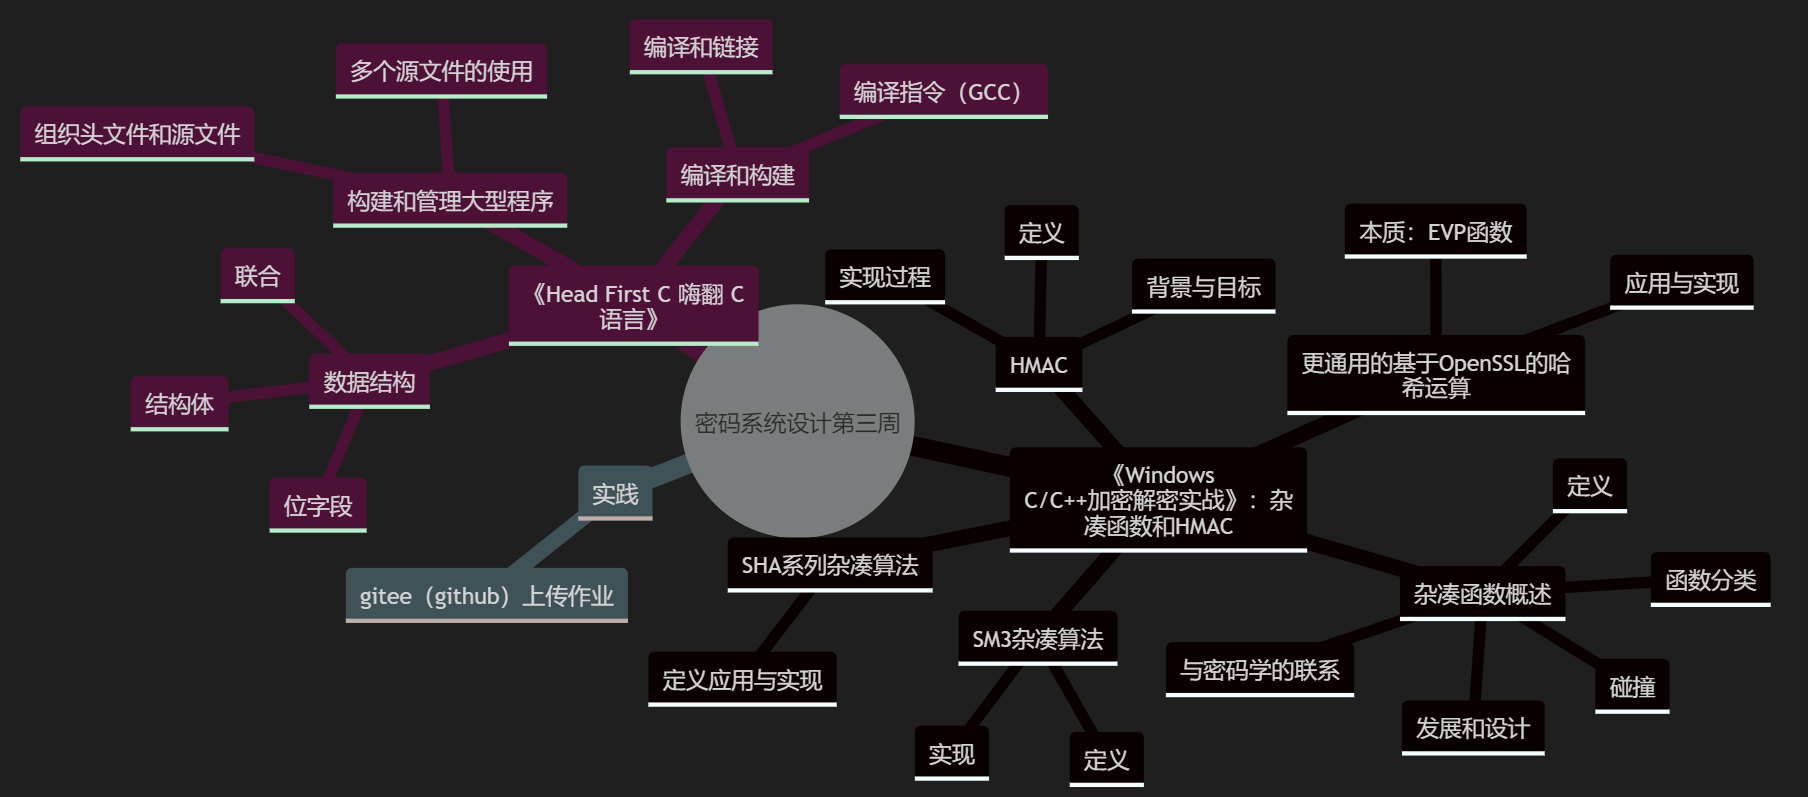
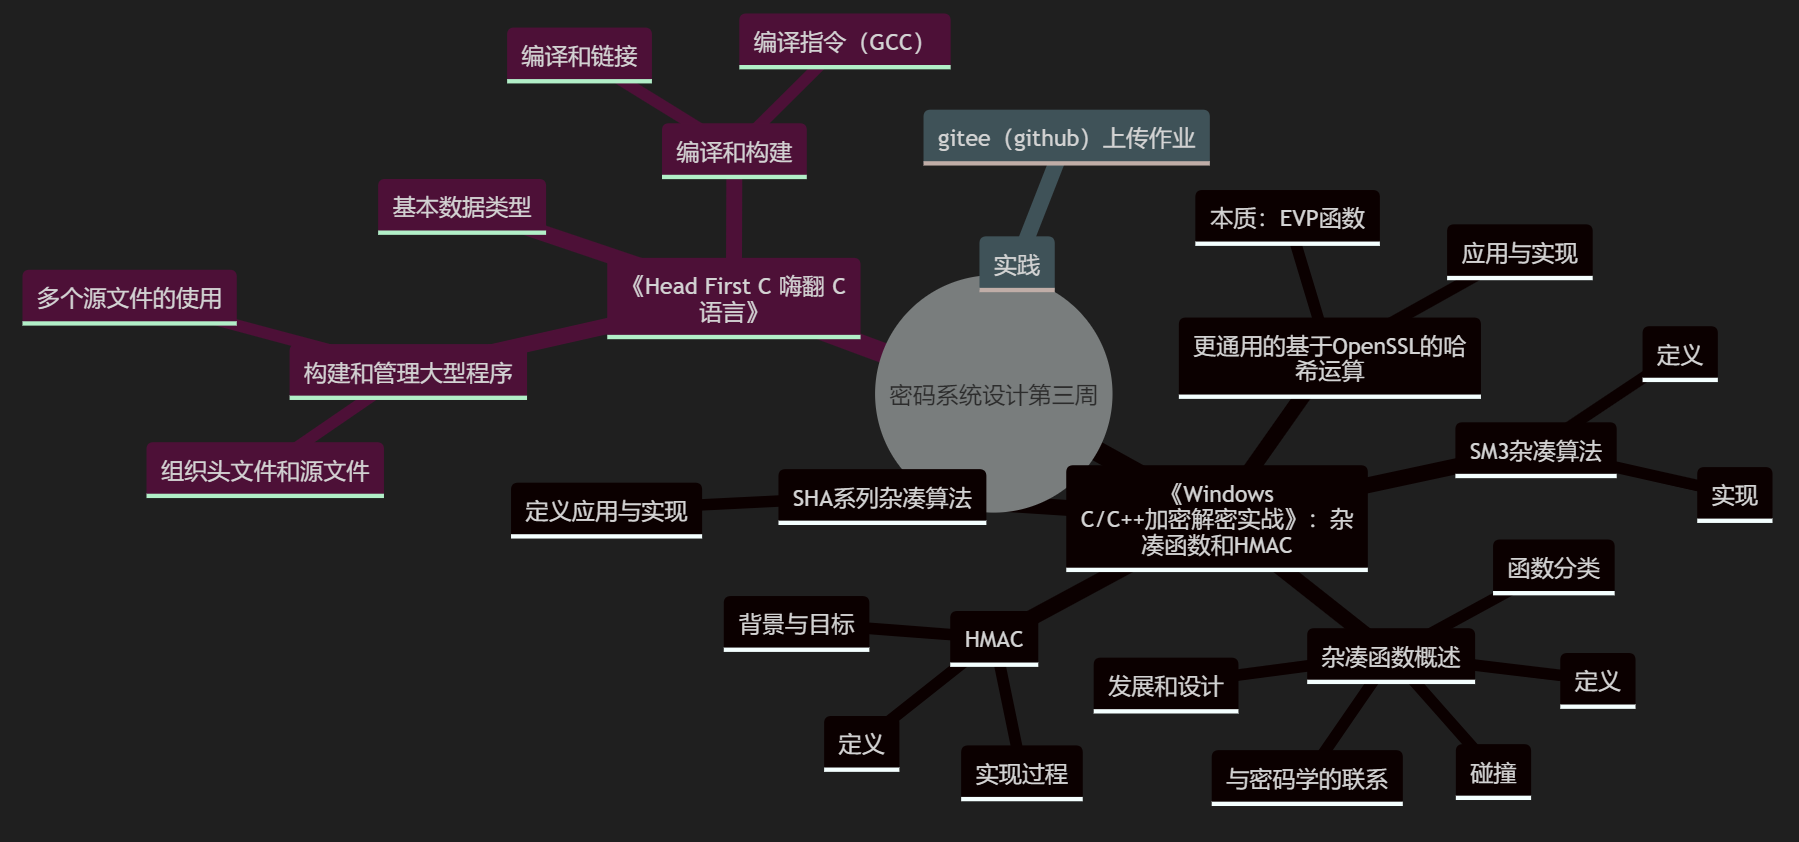
修改第三周预习作业的错误（将第四章和第五章内容混淆）

diff --git a/预习作业/第三周预习作业/20221414徐鹿鸣《密码系统设计》.md b/预习作业/第三周预习作业/20221414徐鹿鸣《密码系统设计》.md
@@ -64,46 +64,92 @@
   本章内容涵盖了杂凑函数的基本概念、设计原则、应用场景以及具体的算法实例（如SM3），同时介绍了HMAC、Base64编码和PEM文件格式，以及ASN.1和DER在数据传输中的应用。这些知识点对于理解和实现加密解密技术非常重要。 
   ```
 
-- [对《Head First C 嗨翻 C 语言》第四章的总结](https://kimi.moonshot.cn/share/crnmor86n7ms8pugj95g)：
+- [对《Head First C 嗨翻 C 语言》第四章的总结](https://kimi.moonshot.cn/share/crrn27r4ukfetusco1d0)：
   ```
-  User: 请对《Head First C 嗨翻 C 语言》第四章进行总结 
+  User: 请阅读这本书的第4章节Break it down, build it up内容并总结 
 
-  Kimi: 《Head First C》第四章主要介绍了如何使用C语言中的结构体（structs）、联合（unions）和位字段（bitfields），以及如何通过使用多个源文件来构建和管理大型程序。以下是对本章内容的总结：
+  Kimi: 第4章节“Break it down, build it up”主要讲解了如何在C语言中使用多个源文件来构建程序。以下是该章节的主要内容总结：
 
-  1. **结构体（Structs）**：
-    - 结构体允许你将不同类型的数据组合成一个单一的数据类型，这在处理复杂数据时非常有用。
-    - 你可以定义自己的结构体类型，并通过结构体变量来创建和管理数据。
-    - 结构体字段可以通过点（.）操作符来访问。
+  1. **数据类型的深入理解**：介绍了C语言中不同类型的数据，包括字符、整数（short、int、long）、浮点数（float、double）以及它们的存储大小和范围。
 
-  2. **联合（Unions）**：
-    - 联合是一种特殊的数据类型，允许在相同的内存位置存储不同的数据类型，但一次只能使用其中一个。
-    - 联合可以用来节省内存，或者处理不确定的数据类型。
+  2. **数据类型转换**：解释了如何通过强制类型转换（casting）在不同数据类型之间转换值，尤其是将浮点数转换为整数。
 
-  3. **位字段（Bitfields）**：
-    - 位字段允许你精确控制内存的使用，可以定义占用特定位数的整数。
-    - 位字段通常用于打包数据以节省空间，或者模拟硬件数据结构。
+  3. **使用头文件**：介绍了如何创建和使用头文件（header files），以便在多个源文件之间共享函数声明和宏定义。
 
-  4. **使用多个源文件**：
-    - 大型程序可以通过将代码分割成多个源文件来管理，每个文件包含程序的一部分。
-    - 使用`#include`指令可以包含头文件，这些头文件定义了函数原型和其他共享声明。
-    - 编译多个源文件时，需要确保所有相关的`.c`文件都被编译器考虑。
+  4. **编译和链接**：解释了编译过程，包括预处理、编译、汇编和链接四个阶段，以及如何将多个源文件编译成单个可执行文件。
 
-  5. **编译和链接**：
-    - 编译器将C源代码编译成目标代码，然后链接器将这些目标代码链接成可执行文件。
-    - 可以使用`gcc`命令行工具来编译和链接程序，使用`-o`选项指定输出文件名。
+  5. **使用`gcc`编译器**：介绍了如何使用`gcc`命令行编译器来编译C程序，包括如何使用`-c`选项编译源文件为对象文件，以及如何链接对象文件生成最终的可执行文件。
 
-  6. **头文件和源文件的组织**：
-    - 头文件（`.h`）通常包含函数原型、宏定义和其他全局声明，而源文件（`.c`）包含实际的函数定义和程序逻辑。
-    - 头文件应该保护多重包含，通常通过宏定义来实现。
+  6. **使用`make`工具**：讲解了`make`工具的基本概念和用法，如何编写makefile来自动化编译过程，以及如何通过makefile管理复杂的项目构建。
 
-  7. **编译指令**：
-    - 使用`gcc`的`-c`选项可以编译源文件但不进行链接，生成目标文件（`.o`）。
-    - 使用`gcc`的`-o`选项可以指定输出的可执行文件名。
+  7. **代码组织**：讨论了将大型程序分解为小型、可管理的代码块的重要性，以及如何通过模块化来提高代码的可维护性和可读性。
 
-  8. **自动化构建**：
-    - `make`工具可以帮助自动化编译过程，通过跟踪文件的依赖关系来确定哪些文件需要重新编译。
+  8. **避免数据类型溢出**：警告了将大值赋给小数据类型（如将整数赋给short变量）可能导致的数据溢出问题。
 
-  本章通过实际的例子和练习，帮助读者理解如何在C语言中使用这些高级特性来构建复杂的数据结构和大型程序。 
+  9. **指针与数组**：深入讨论了指针和数组的关系，包括如何使用指针来操作数组，以及指针在数组操作中的作用。
+
+  10. **函数声明与定义**：强调了在函数定义之前进行声明的重要性，以避免编译器对函数返回类型的错误假设。
+
+  整体而言，第4章节着重于C语言编程中的代码组织和编译技巧，让读者了解如何有效地构建和管理大型C项目。 
+  User: Your quick guide to data types                                                                   162
+  Don’t put something big into something small                                        163
+  Use casting to put floats into whole numbers                                           164
+  Oh no	it’s the out-of-work actors …                                                     168
+  Let’ssee what’s happened to the code                                                     169
+  Compilers don’t like surprises                                                                    171
+  Split the declaration from the definition                                                  173
+  Creating your first header file                                                                   174
+  If you have common features 	                                                             182
+  You can split the code into separate files                                                   183
+  Compilation behind the scenes                                                                184
+  The shared code needs its own header file                                               186
+  It’s not rocket science	or is it?                                                              189
+  Don’t recompile every file                                                                          190
+  First, compile the source into object files                                                  191
+  It’shard to keep track of the files                                                             196
+  Automate your builds with the make tool                                                198
+  How make works                                                                                    199
+  Tell make about your code with a makefile                                             200
+  Liftoff!                                                                                                    205
+  Your C Toolbox                                                                                         206 
+
+  Kimi: 在第4章节“Break it down, build it up”中，涉及了C语言编程中关于数据类型、代码组织、编译过程、以及使用`make`工具的一系列重要概念。以下是该部分内容的详细总结：
+
+  1. **数据类型指南**：
+    - 介绍了C语言中的基本数据类型，如`char`、`int`、`float`、`double`等。
+    - 强调了数据类型的重要性，以及如何根据需要选择正确的数据类型。
+
+  2. **避免小数据类型存储大数据**：
+    - 讨论了将大数据类型的值赋给小数据类型变量时可能遇到的问题，例如整数赋给`short`类型可能导致溢出。
+
+  3. **使用类型转换**：
+    - 展示了如何使用类型转换（casting）来将浮点数转换为整数。
+
+  4. **编译器不喜欢意外**：
+    - 强调了编译器在编译过程中对代码的顺序和声明的依赖性。
+
+  5. **分离声明和定义**：
+    - 讨论了如何将函数的声明（prototype）和定义（implementation）分开，以提高代码的可读性和可维护性。
+
+  6. **创建第一个头文件**：
+    - 介绍了如何创建自定义的头文件，以便在多个源文件之间共享函数声明和其他定义。
+
+  7. **编译背后的场景**：
+    - 详细解释了编译过程中的各个步骤，包括预处理、编译、汇编和链接。
+
+  8. **共享代码需要自己的头文件**：
+    - 讨论了如何为共享代码创建头文件，以及如何通过头文件来避免代码重复。
+
+  9. **不要每次都重新编译每个文件**：
+    - 介绍了如何通过编译器选项`-c`来编译源文件为对象文件，并且如何通过链接这些对象文件来构建最终的可执行文件。
+
+  10. **自动化构建**：
+      - 讨论了使用`make`工具来自动化编译过程的好处，以及如何创建`makefile`来管理构建过程。
+
+  11. **C工具箱**：
+      - 总结了本章的关键知识点，并提供了快速参考。
+
+  通过本章节的学习，读者将能够更好地理解如何在C语言中有效地组织代码，如何使用头文件来共享代码，以及如何通过`make`工具来简化构建过程。这些技能对于开发大型C项目至关重要。 
 
 
   ```
@@ -149,11 +195,8 @@ mindmap
         更通用的基于OpenSSL的哈希运算
             本质：EVP函数
             应用与实现
-    《Head First C 嗨翻 C 语言》
-        数据结构
-          结构体
-          联合
-          位字段
+    《Head First C 嗨翻 C 语言》第四章
+        基本数据类型
         构建和管理大型程序
           多个源文件的使用
           组织头文件和源文件

diff --git a/预习作业/20221414徐鹿鸣《密码系统设计》.md b/预习作业/20221414徐鹿鸣《密码系统设计》.md
@@ -13,7 +13,48 @@
 #### 要求
 - 让AI（kimi，元宝等）阅读学习内容并进行总结，教材内容可以使用微信读书或者云班课电子教材
 #### 总结
-XXXXXXXXXXXXXXXXXXXXXXXXXXXXXXXXXXXX
+- (对《Windows C/C++加密解密实战》的总结)[https://kimi.moonshot.cn/share/crrmq2kascdguvi3p9jg]：
+  ```
+  User: 请阅读这本书的第6、8、13、14章节内容并总结，请详细总结第十四章 
+
+  Kimi: 这本书的第6、8、13、14章节主要介绍了加密和解密的相关知识，特别是非对称算法RSA、椭圆曲线密码体制（ECC），以及中国的国家标准公钥密码算法SM2。下面是对这些章节的详细总结：
+
+  ### 第6章：非对称算法RSA的加解密
+  - **非对称密码体制**：介绍了单钥加密和公钥密码体制，其中RSA是公钥密码体制的典型代表。
+  - **RSA算法**：详细讲解了RSA算法的数学基础，包括素数、素性检测、倍数、约数、互质数、质因数、因子、模运算等概念。
+  - **RSA的安全性**：讨论了RSA算法的安全性，基于大数分解的难度。
+  - **RSA算法描述**：提供了RSA算法的具体描述，包括密钥生成、加密和解密的详细步骤。
+  - **RSA的数学基础**：深入讲解了RSA算法的数学原理，包括欧拉函数、最大公约数、扩展欧几里得算法等。
+  - **RSA算法的攻击及分析**：分析了对RSA算法的可能攻击方式，如因子分解攻击、选择密文攻击等。
+
+  ### 第8章：椭圆曲线密码体制
+  - **椭圆曲线的数学基础**：介绍了椭圆曲线的定义、性质以及在密码学中的应用。
+  - **椭圆曲线的加密和解密**：讨论了椭圆曲线加密算法（ECC）的基本原理和实现。
+  - **椭圆曲线的数学表示**：详细描述了椭圆曲线在不同数域上的表示方法。
+  - **椭圆曲线的安全性**：分析了椭圆曲线密码体制的安全性，包括抗攻击能力和算法的复杂性。
+
+  ### 第13章：SM2算法的数学基础
+  - **SM2算法概述**：介绍了SM2算法的背景、特点和应用场景。
+  - **SM2算法的数学基础**：详细讲解了SM2算法所需的数学知识，包括素域、二元扩域、椭圆曲线的定义和性质。
+  - **SM2算法的实现**：讨论了SM2算法的具体实现步骤，包括密钥对生成、加密、解密和数字签名。
+
+  ### 第14章：SM2算法的实现
+  - **SM2算法的用途**：介绍了SM2算法在数字签名、加密解密和密钥交换中的应用。
+  - **椭圆曲线密码体制的不足**：分析了ECC算法的局限性和实现中的挑战。
+  - **椭圆曲线的研究热点**：探讨了椭圆曲线密码体制的研究进展和热点问题。
+  - **SM2算法中的有限域**：详细描述了SM2算法使用的有限域Fq的定义和性质。
+  - **SM2算法的参数**：介绍了SM2算法的参数选择，包括椭圆曲线的参数和用户密钥对的生成。
+  - **SM2算法的加密和解密流程**：提供了SM2算法加密和解密的具体流程和步骤。
+  - **SM2算法的数字签名**：讨论了SM2算法在数字签名方面的应用，包括签名的生成和验证过程。
+  - **SM2算法的实现示例**：给出了SM2算法实现的示例代码，包括密钥生成、加密、解密和签名验签的代码实现。
+
+  第14章特别强调了SM2算法的实用性和安全性，作为中国的国家标准公钥密码算法，SM2在保证信息安全方面具有重要意义。通过对SM2算法的详细讲解和示例代码的展示，读者可以更好地理解和掌握SM2算法的实现和应用。 
+
+  ```
+- 对《Head First C 嗨翻 C 语言》第五章的总结：
+```
+
+```
 ### 对 AI 总结的反思与补充（2分）
 #### 要求
 - AI总结的问题
